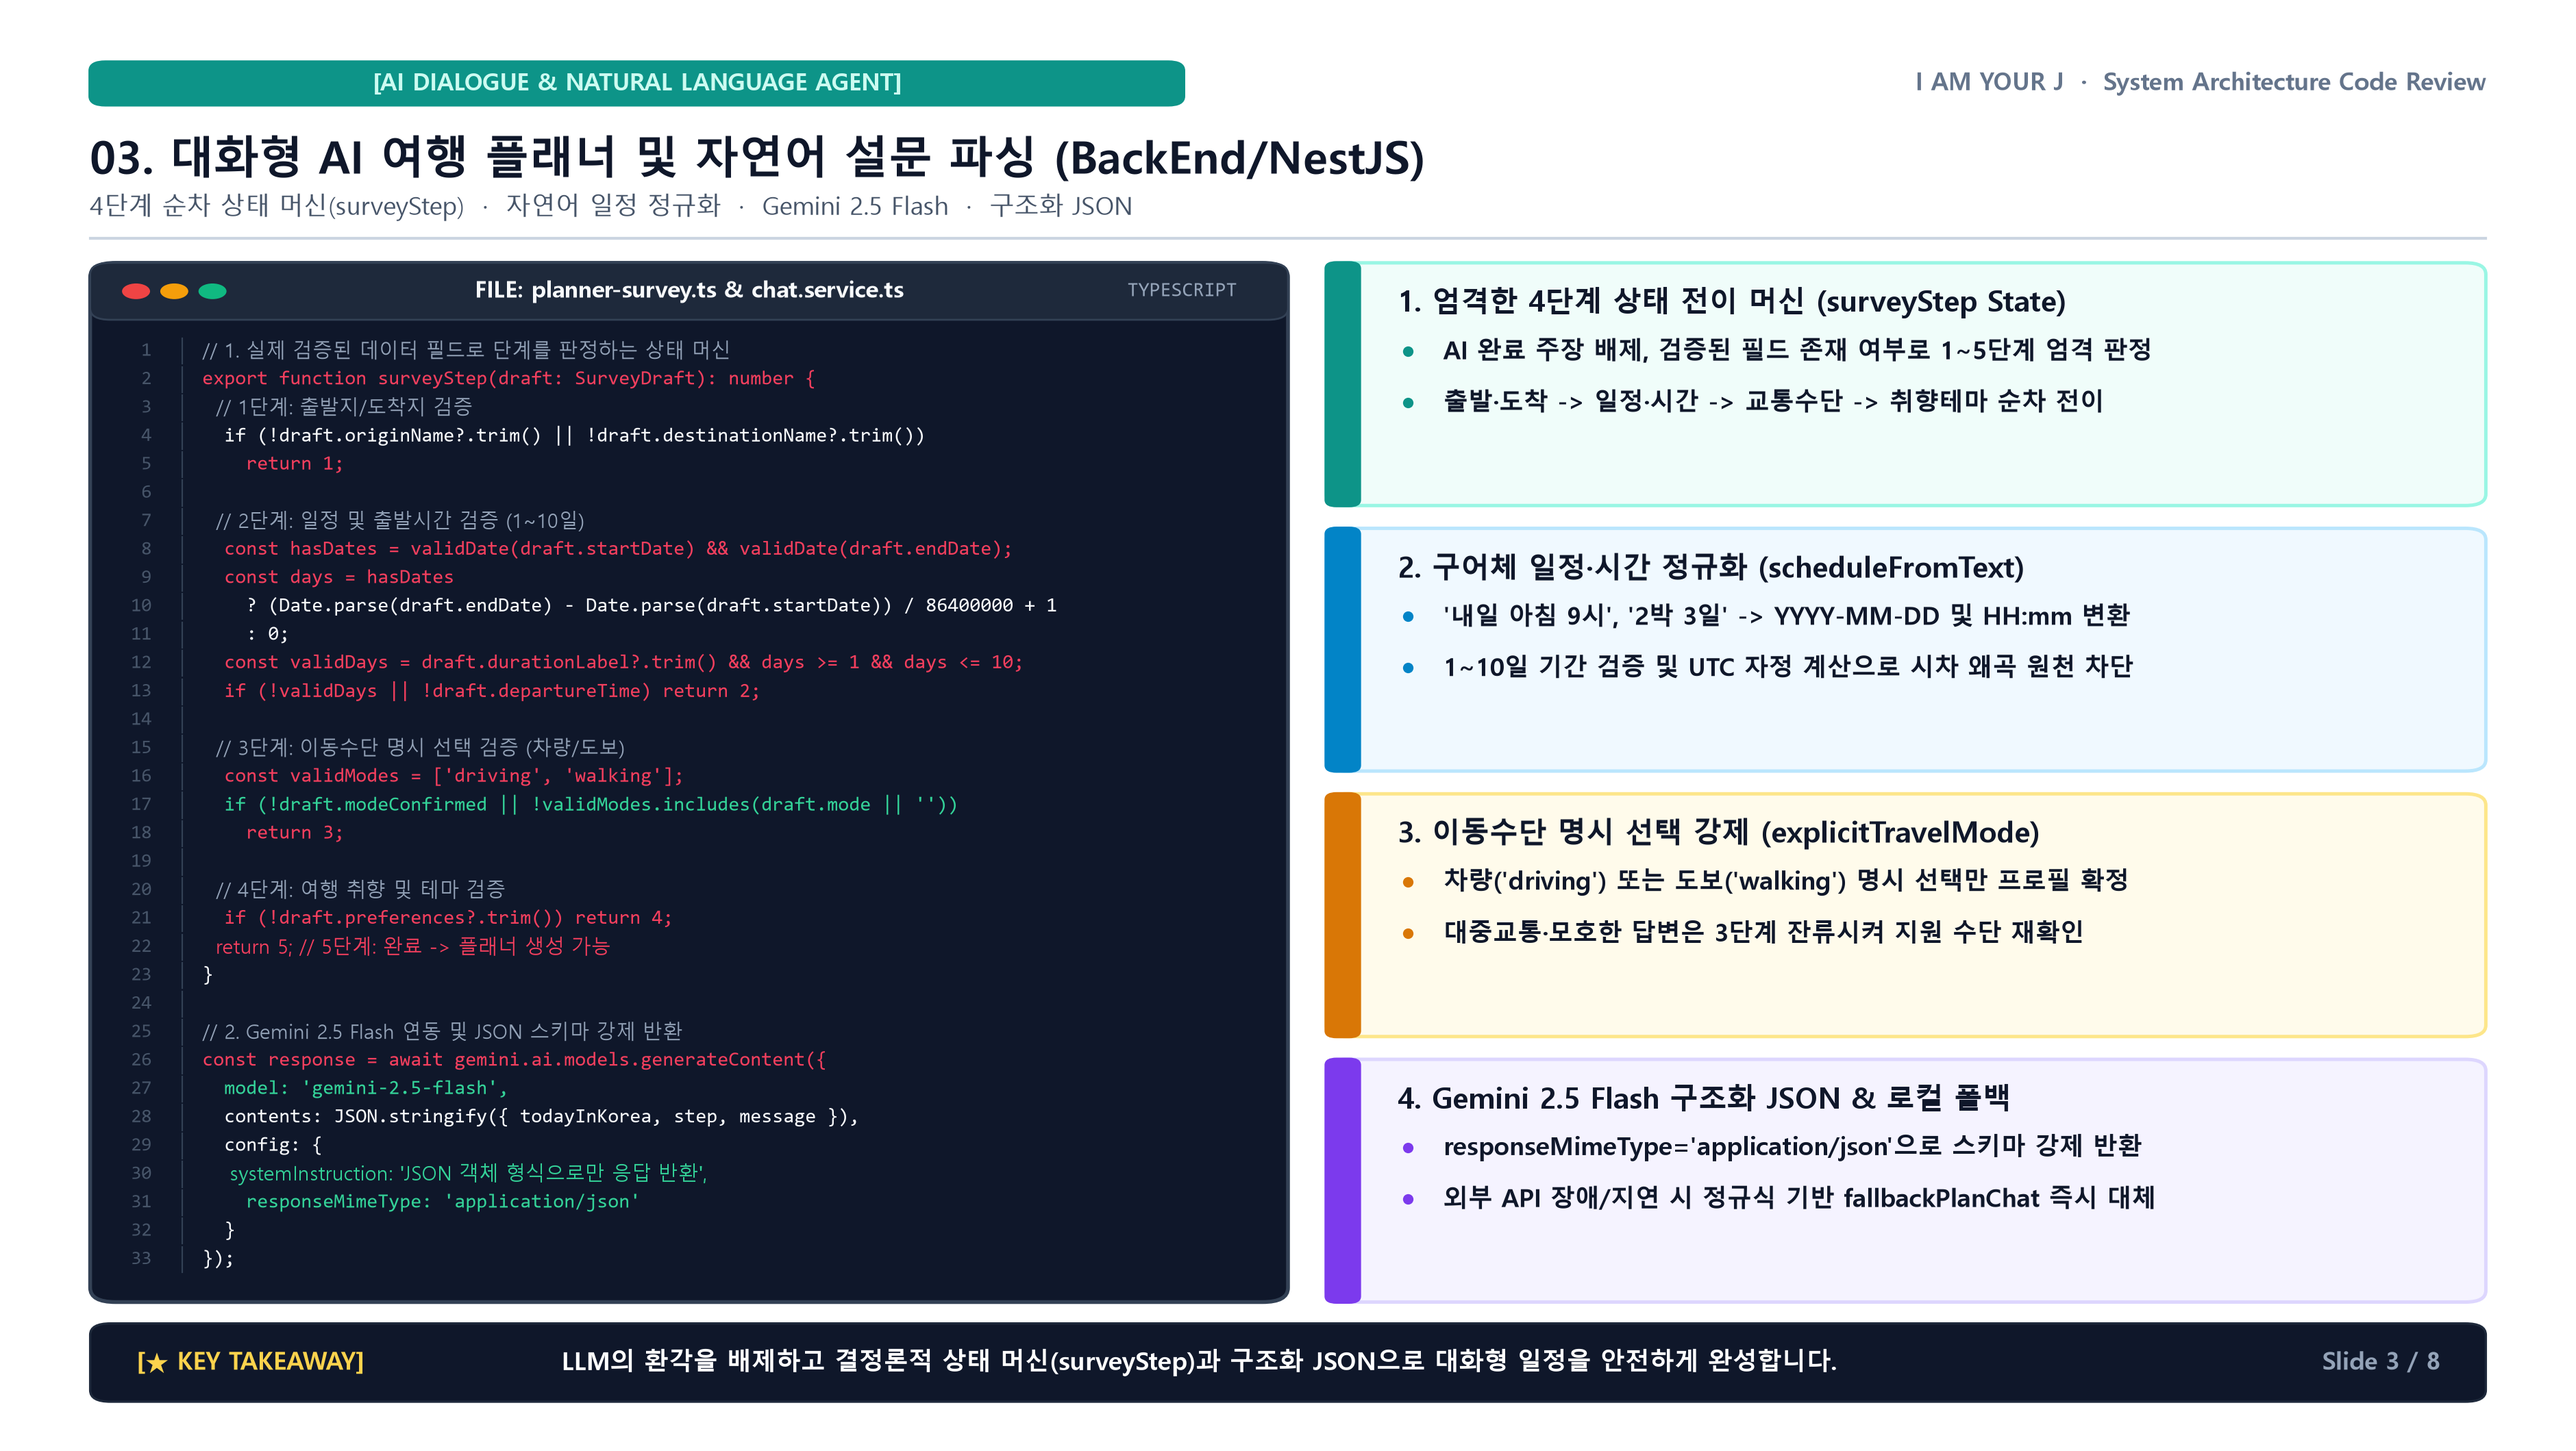
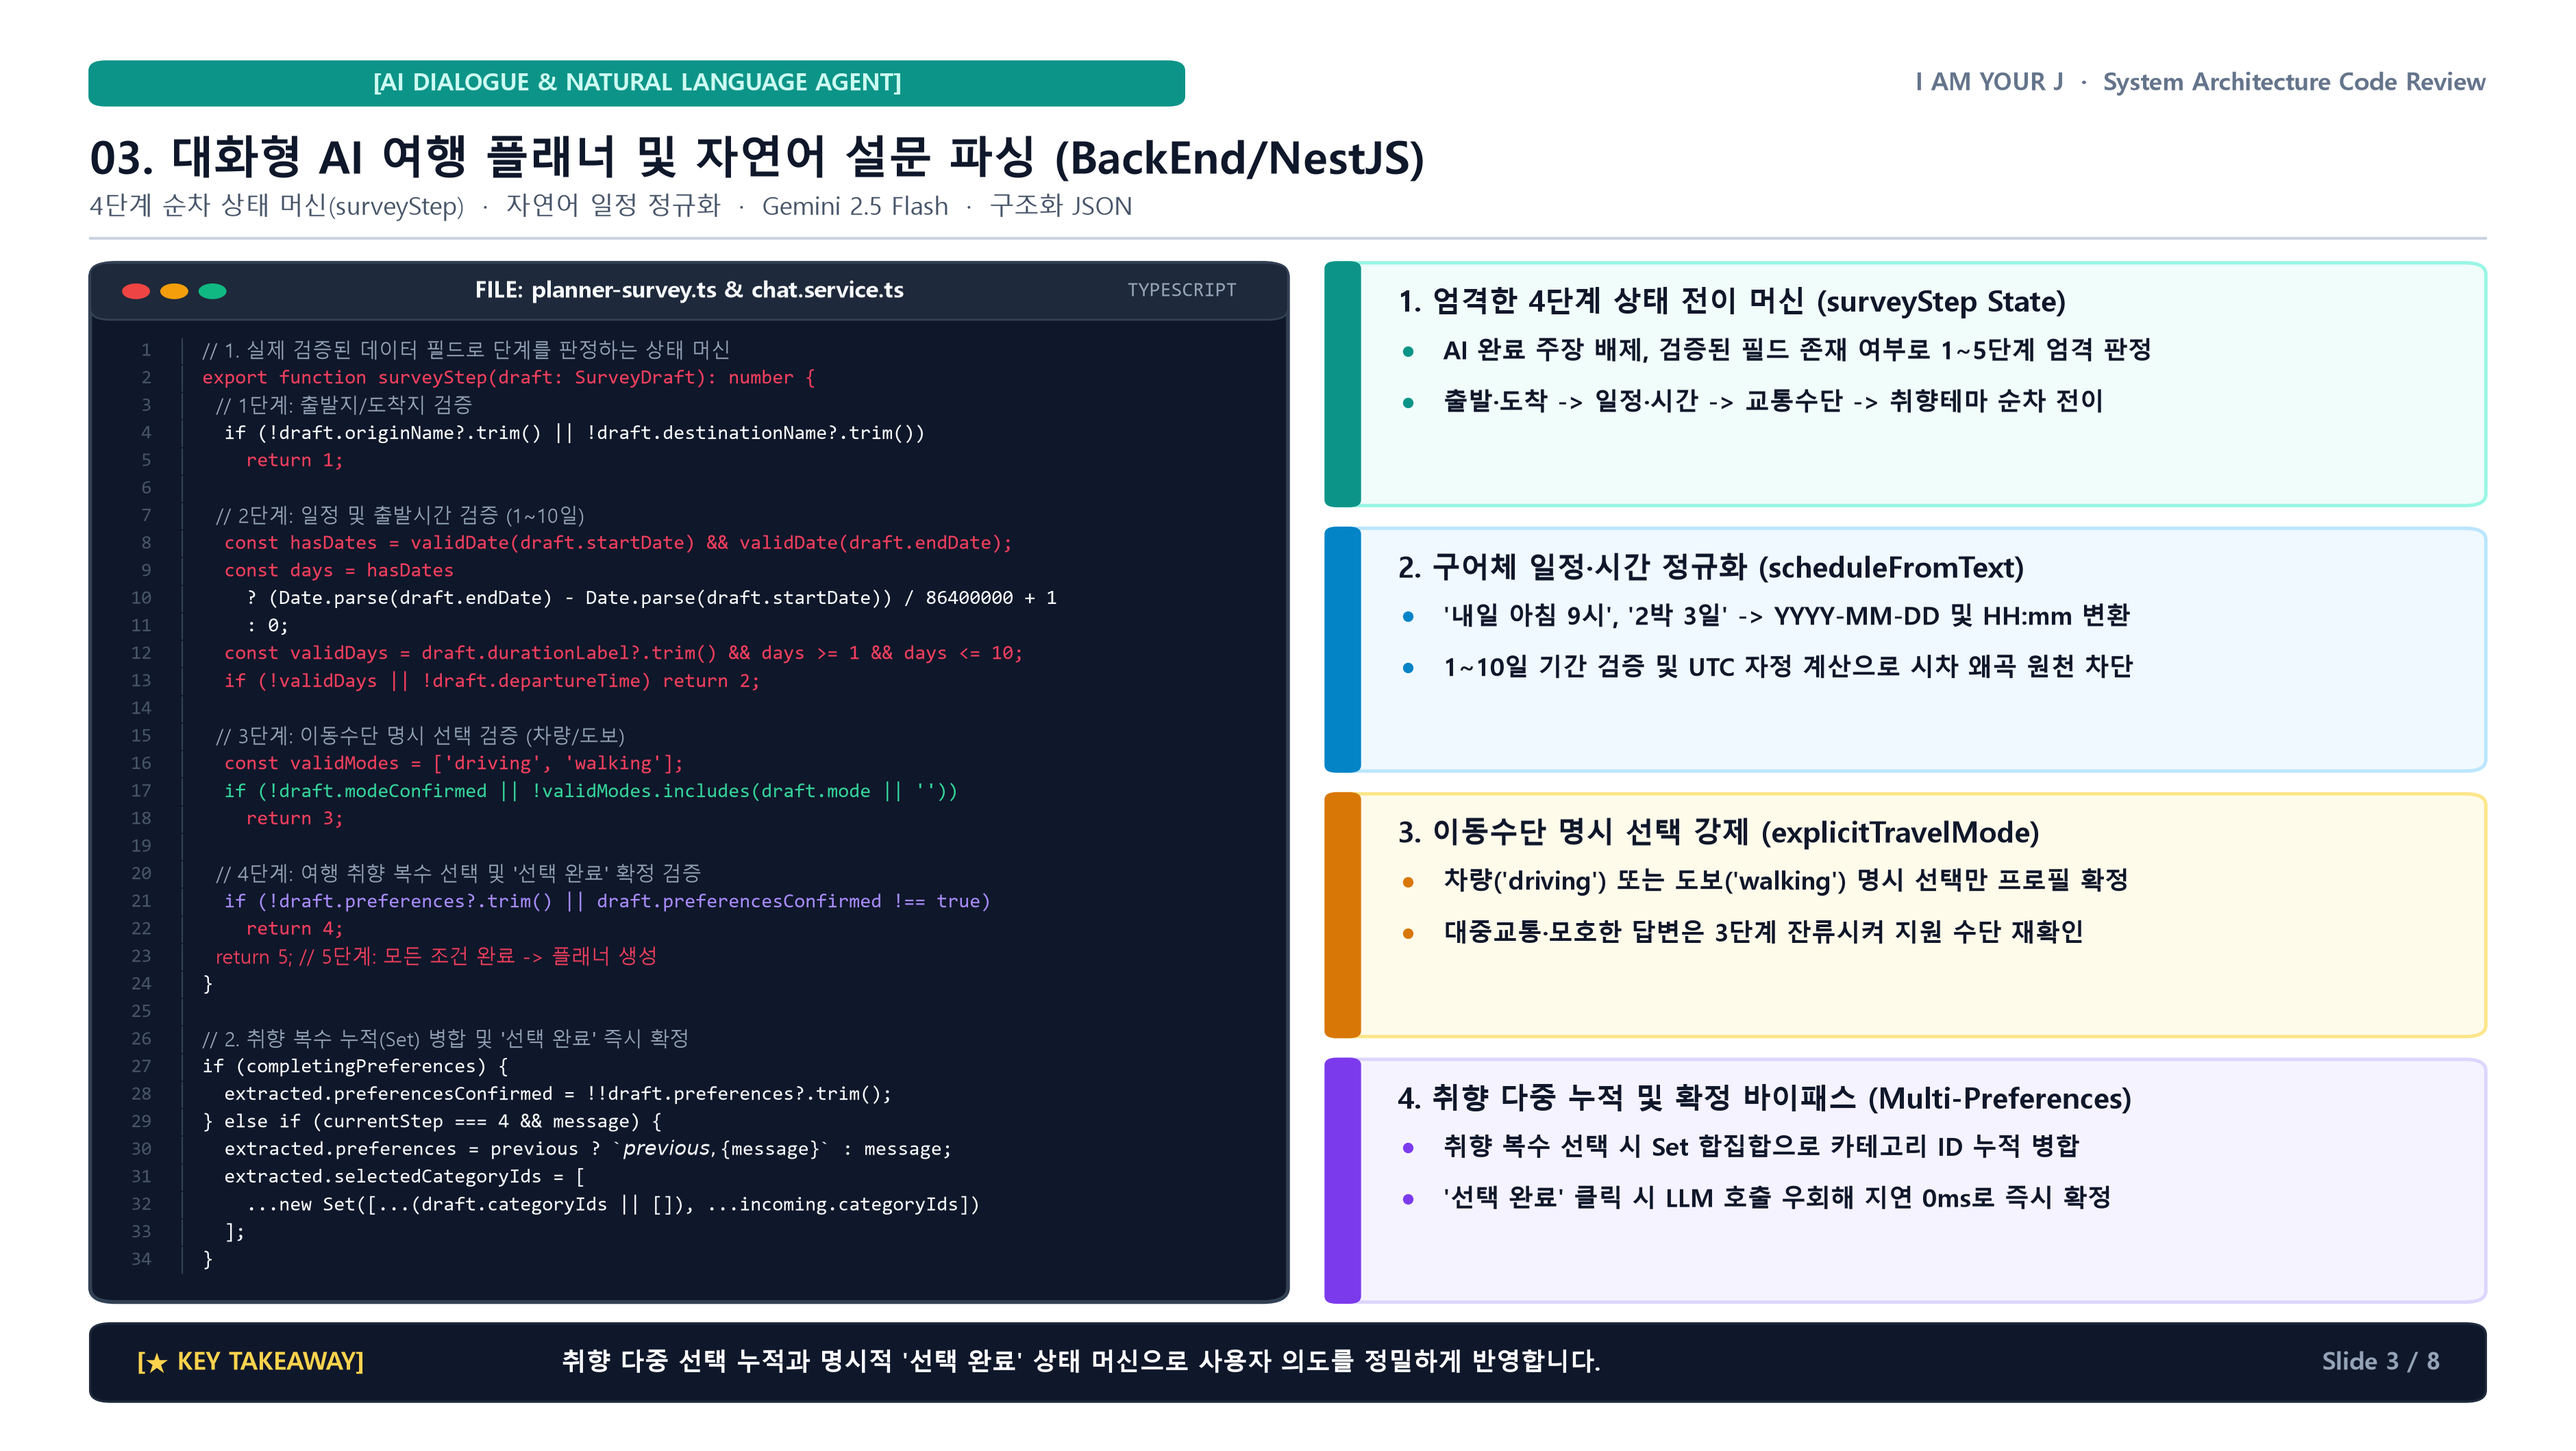
docs(ppt): reflect multi-preference cumulative state machine and lodging isolation logic

diff --git a/generate_ppt_code_analysis.py b/generate_ppt_code_analysis.py
@@ -417,20 +417,21 @@ def generate_slide_03():
         "  if (!draft.modeConfirmed || !validModes.includes(draft.mode || ''))",
         "    return 3;",
         "  ",
-        "  // 4단계: 여행 취향 및 테마 검증",
-        "  if (!draft.preferences?.trim()) return 4;",
-        "  return 5; // 5단계: 완료 -> 플래너 생성 가능",
+        "  // 4단계: 여행 취향 복수 선택 및 '선택 완료' 확정 검증",
+        "  if (!draft.preferences?.trim() || draft.preferencesConfirmed !== true)",
+        "    return 4;",
+        "  return 5; // 5단계: 모든 조건 완료 -> 플래너 생성",
         "}",
         "",
-        "// 2. Gemini 2.5 Flash 연동 및 JSON 스키마 강제 반환",
-        "const response = await gemini.ai.models.generateContent({",
-        "  model: 'gemini-2.5-flash',",
-        "  contents: JSON.stringify({ todayInKorea, step, message }),",
-        "  config: {",
-        "    systemInstruction: 'JSON 객체 형식으로만 응답 반환',",
-        "    responseMimeType: 'application/json'",
-        "  }",
-        "});"
+        "// 2. 취향 복수 누적(Set) 병합 및 '선택 완료' 즉시 확정",
+        "if (completingPreferences) {",
+        "  extracted.preferencesConfirmed = !!draft.preferences?.trim();",
+        "} else if (currentStep === 4 && message) {",
+        "  extracted.preferences = previous ? `${previous}, ${message}` : message;",
+        "  extracted.selectedCategoryIds = [",
+        "    ...new Set([...(draft.categoryIds || []), ...incoming.categoryIds])",
+        "  ];",
+        "}"
     ]
     render_code_window(ax, 3.0, 9.5, 47.0, 73.0, "planner-survey.ts & chat.service.ts", code, lang="typescript")
     
@@ -460,11 +461,11 @@ def generate_slide_03():
             ]
         },
         {
-            "title": "4. Gemini 2.5 Flash 구조화 JSON & 로컬 폴백",
+            "title": "4. 취향 다중 누적 및 확정 바이패스 (Multi-Preferences)",
             "accent": "#7C3AED", "border": "#DDD6FE", "bg": "#F5F3FF",
             "items": [
-                "responseMimeType='application/json'으로 스키마 강제 반환",
-                "외부 API 장애/지연 시 정규식 기반 fallbackPlanChat 즉시 대체"
+                "취향 복수 선택 시 Set 합집합으로 카테고리 ID 누적 병합",
+                "'선택 완료' 클릭 시 LLM 호출 우회해 지연 0ms로 즉시 확정"
             ]
         }
     ]
@@ -472,7 +473,7 @@ def generate_slide_03():
     
     render_slide_footer(
         ax, 3, 8,
-        "LLM의 환각을 배제하고 결정론적 상태 머신(surveyStep)과 구조화 JSON으로 대화형 일정을 안전하게 완성합니다."
+        "취향 다중 선택 누적과 명시적 '선택 완료' 상태 머신으로 사용자 의도를 정밀하게 반영합니다."
     )
     save_and_copy_slide(fig, "slide_03_backups_manifest.png")
 
@@ -553,7 +554,7 @@ def generate_slide_04():
             "title": "4. 도착지 거점 카테고리별 병렬 수집 (Spot Gathering)",
             "accent": "#D97706", "border": "#FDE68A", "bg": "#FFFBEB",
             "items": [
-                "관광·문화, 맛집, 숙박 4개 카테고리 동시 병렬 쿼리 수행",
+                "관광·맛집·숙박 병렬 쿼리 & 숙박(32)은 관광 필터와 분리 탐색",
                 "3km->5km, 10km->20km 자동 확장 및 도착시각 기반 큐레이션"
             ]
         }
